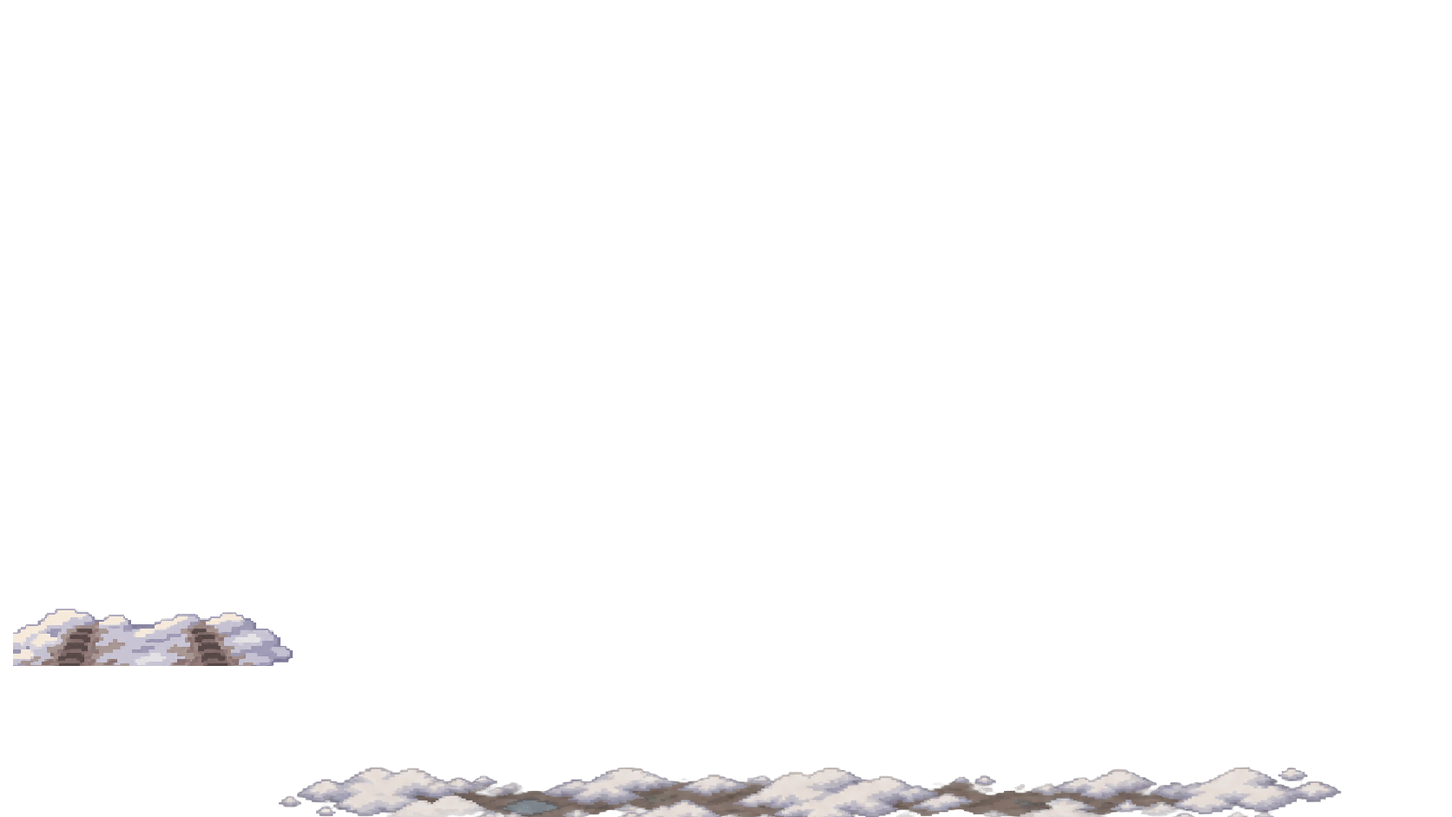
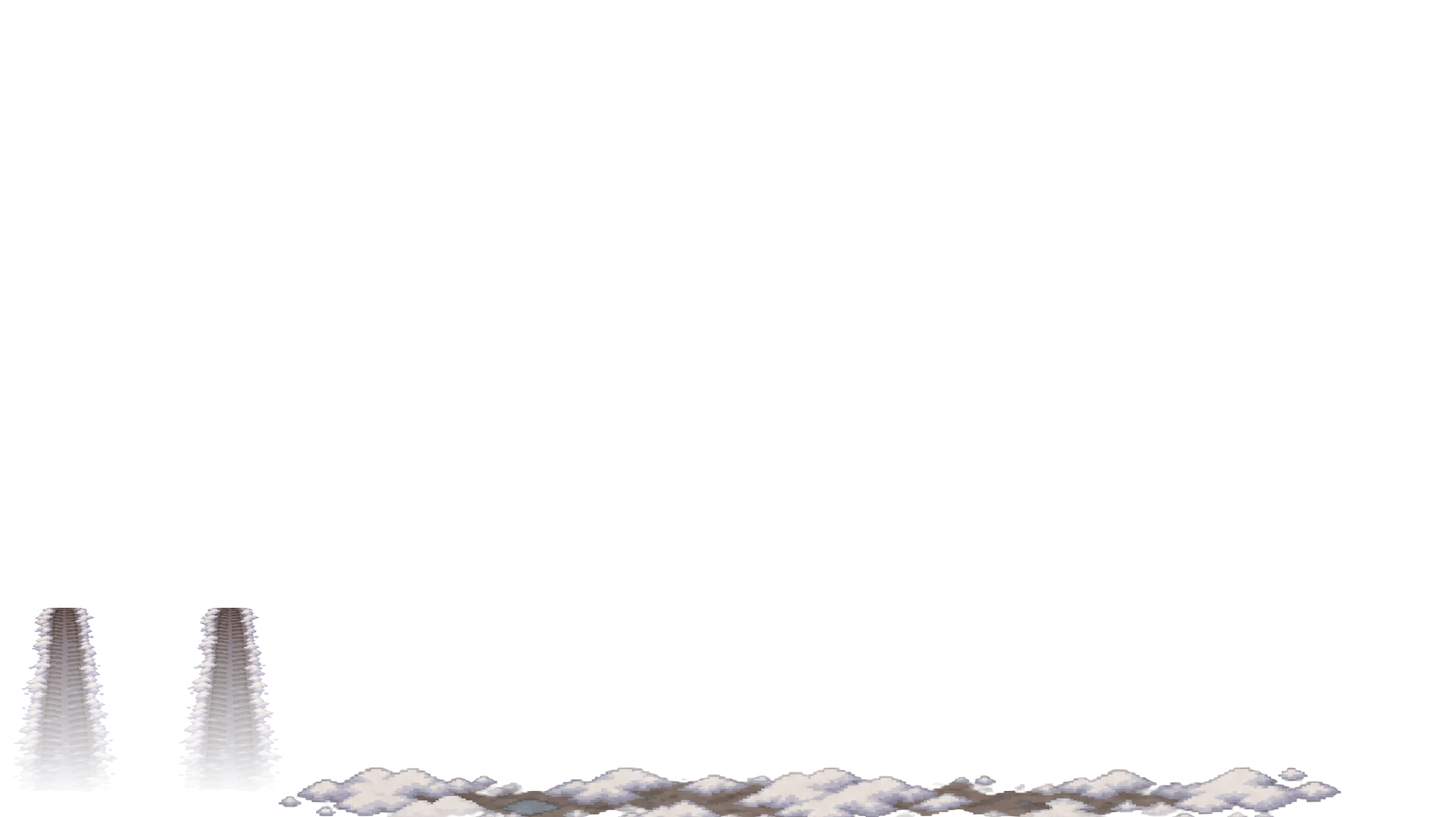
Torget til alle tider på døgnet, lange hjulspor og merkelapper på sikringene
- Bakgrunner for morgen, kveld og natt (marked-*.jpg); fargelaget over
  kveld/natt er fjernet.
- Lange hjulspor bak bilen som fader ut (i bakke.png med slapsen).
- Sikringene har kremhvite merkelapper med større ikon og kort navn.
- Tilbake til systemfontene (pikselfonten er bare definert, ikke i bruk).
- Bordkanten dekker hele bordplata, så kunder og tyven ikke kuttes.
- Postkassa kan klikkes igjen; ladestasjonen finjustert; søppelbøtta litt
  lenger til høyre; grenuttaket 85 % med bunnen fast.

Changed region(s): [[0.0, 0.7396, 0.2177, 0.9554]]

diff --git a/client/style.css b/client/style.css
@@ -1,4 +1,5 @@
-/* Fonter: Pixelify Sans (UI) – selvhostet, OFL. Håndskrift (oppskrifter/notater) bruker
+/* Fonter: UI-et bruker systemfonten igjen (pikselfonten ble for krevende å få plass til). Pixelify Sans er
+   fortsatt definert her (selvhostet, OFL) til eventuell senere bruk. Håndskrift (oppskrifter/notater) bruker
    systemfonten Segoe Print / Comic Sans. Se fonts/README.md */
 @font-face {
   font-family: 'Pixelify Sans';
@@ -39,7 +40,7 @@ html, body { margin: 0; }
 body {
   background: var(--bg);
   color: var(--ink);
-  font: 15px/1.5 'Pixelify Sans', system-ui, -apple-system, 'Segoe UI', sans-serif;
+  font: 15px/1.45 system-ui, -apple-system, 'Segoe UI', sans-serif;
 }
 
 h1, h2, h3 { margin: 0 0 0.6rem; line-height: 1.2; font-weight: 700; letter-spacing: 0.01em; }
@@ -321,7 +322,7 @@ body.night .power-layer.glow { filter: drop-shadow(0 0 0.6cqw rgba(255, 210, 120
 .loupe-mark.hint {
   pointer-events: auto; cursor: zoom-in; border: 0; padding: 0; margin: 0; border-radius: 0;
   background: rgba(255, 233, 168, 0.22); box-shadow: inset 0 0 0 2px #ffe9a8;
-  color: #ffe9a8; font: 700 1.6cqw/1 'Pixelify Sans', system-ui, sans-serif; text-shadow: 0 0 3px #000, 0 1px 0 #000;
+  color: #ffe9a8; font: 700 1.6cqw/1 system-ui, sans-serif; text-shadow: 0 0 3px #000, 0 1px 0 #000;
   display: flex; align-items: center; justify-content: center;
   animation: loupe-hint 1.4s ease-in-out infinite;
 }
@@ -473,7 +474,7 @@ body.night .power-layer.glow { filter: drop-shadow(0 0 0.6cqw rgba(255, 210, 120
 
 .modal.paper-modal { background: #f3ecdc; color: #1d1a16; max-width: 640px; }
 .modal.paper-modal .close { color: #1d1a16; }
-.paper { font-family: 'Pixelify Sans', system-ui, sans-serif; }
+.paper { font-family: Georgia, 'Times New Roman', serif; }
 .paper-mast { border-bottom: 3px double #1d1a16; padding-bottom: 0.4rem; margin-bottom: 0.8rem; text-align: center; }
 /* Logoen står til venstre; navnet er midtstilt i hele bredden (lik luft på begge sider). */
 .paper-name { position: relative; display: flex; align-items: center; justify-content: center; min-height: 2.1em; padding: 0 2.5em; font-size: clamp(1.6rem, 6vw, 2.6rem); font-weight: 900; letter-spacing: 0.04em; line-height: 1; }
@@ -483,7 +484,7 @@ body.night .power-layer.glow { filter: drop-shadow(0 0 0.6cqw rgba(255, 210, 120
 .paper-cols { display: grid; grid-template-columns: 1fr 1fr; gap: 1rem; border-bottom: 1px solid #b8ad97; padding-bottom: 0.8rem; margin-bottom: 0.8rem; }
 @media (max-width: 520px) { .paper-cols { grid-template-columns: 1fr; } }
 .paper-cols p { margin: 0.3rem 0; font-size: 0.9rem; }
-.paper-kicker { font-family: 'Pixelify Sans', system-ui, sans-serif; font-size: 0.72rem; font-weight: 800; text-transform: uppercase; letter-spacing: 0.08em; color: #8b1f25; margin-bottom: 0.2rem; }
+.paper-kicker { font-family: system-ui, sans-serif; font-size: 0.72rem; font-weight: 800; text-transform: uppercase; letter-spacing: 0.08em; color: #8b1f25; margin-bottom: 0.2rem; }
 .paper-power { background: #e6dcc6; padding: 0.6rem 0.7rem; border-left: 4px solid #6b8f5a; }
 .paper-power.hoy { border-left-color: #d9a441; }
 .paper-power.rekord { border-left-color: #b3262d; background: #f1d6cf; }
@@ -506,13 +507,13 @@ body.night .power-layer.glow { filter: drop-shadow(0 0 0.6cqw rgba(255, 210, 120
 
 /* Sider i avisa */
 .paper-tabs { display: flex; flex-wrap: wrap; gap: 0.3rem; margin: -0.3rem 0 0.9rem; border-bottom: 1px solid #b8ad97; padding-bottom: 0.5rem; }
-.paper .paper-tab { font-family: 'Pixelify Sans', system-ui, sans-serif; font-size: 0.75rem; font-weight: 700; padding: 0.25rem 0.55rem; background: transparent; color: #4a4339; border: 1px solid #b8ad97; box-shadow: none; }
+.paper .paper-tab { font-family: system-ui, sans-serif; font-size: 0.75rem; font-weight: 700; padding: 0.25rem 0.55rem; background: transparent; color: #4a4339; border: 1px solid #b8ad97; box-shadow: none; }
 .paper .paper-tab.on { background: #1d1a16; color: #f3ecdc; border-color: #1d1a16; }
 .paper-teasers { list-style: none; margin: 0 0 0.9rem; padding: 0; border-top: 1px solid #b8ad97; }
 .paper-teasers li { border-bottom: 1px solid #b8ad97; }
-.paper .paper-teaser { width: 100%; display: flex; justify-content: space-between; align-items: baseline; gap: 0.8rem; text-align: left; padding: 0.55rem 0.1rem; background: transparent; color: #1d1a16; border: 0; box-shadow: none; font-family: 'Pixelify Sans', system-ui, sans-serif; font-size: 1rem; font-weight: 700; }
+.paper .paper-teaser { width: 100%; display: flex; justify-content: space-between; align-items: baseline; gap: 0.8rem; text-align: left; padding: 0.55rem 0.1rem; background: transparent; color: #1d1a16; border: 0; box-shadow: none; font-family: Georgia, 'Times New Roman', serif; font-size: 1rem; font-weight: 700; }
 .paper .paper-teaser:hover span { text-decoration: underline; }
-.paper .paper-teaser small { font-family: 'Pixelify Sans', system-ui, sans-serif; font-size: 0.7rem; font-weight: 600; color: #6a604f; white-space: nowrap; }
+.paper .paper-teaser small { font-family: system-ui, sans-serif; font-size: 0.7rem; font-weight: 600; color: #6a604f; white-space: nowrap; }
 .paper .paper-teaser.alarm span { color: #8b1f25; }
 .paper-quote { margin: 0 0 0.6rem; padding: 0.4rem 0 0.4rem 0.9rem; border-left: 3px solid #8b1f25; font-size: 1.05rem; font-style: italic; }
 .paper-quote.has-face { display: flex; gap: 0.8rem; align-items: center; }
@@ -527,9 +528,9 @@ body.night .power-layer.glow { filter: drop-shadow(0 0 0.6cqw rgba(255, 210, 120
 .paper-thefts li:last-child { border-bottom: 0; }
 .paper-thefts li.mine { background: #f1d6cf; margin: 0 -0.4rem; padding: 0.35rem 0.4rem; }
 .paper-thefts small { color: #6a604f; }
-.paper-you { font-family: 'Pixelify Sans', system-ui, sans-serif; font-size: 0.65rem; font-weight: 800; text-transform: uppercase; background: #8b1f25; color: #fff; padding: 0.05rem 0.35rem; border-radius: 0.3rem; }
+.paper-you { font-family: system-ui, sans-serif; font-size: 0.65rem; font-weight: 800; text-transform: uppercase; background: #8b1f25; color: #fff; padding: 0.05rem 0.35rem; border-radius: 0.3rem; }
 .paper-log { margin: 0.2rem 0 0; font-size: 0.9rem; }
-.paper-foot { display: flex; justify-content: space-between; align-items: center; gap: 0.5rem; margin-top: 1rem; padding-top: 0.6rem; border-top: 3px double #1d1a16; font-family: 'Pixelify Sans', system-ui, sans-serif; font-size: 0.75rem; color: #4a4339; }
+.paper-foot { display: flex; justify-content: space-between; align-items: center; gap: 0.5rem; margin-top: 1rem; padding-top: 0.6rem; border-top: 3px double #1d1a16; font-family: system-ui, sans-serif; font-size: 0.75rem; color: #4a4339; }
 .paper .paper-turn { font-size: 0.8rem; padding: 0.3rem 0.6rem; background: #1d1a16; color: #f3ecdc; box-shadow: none; }
 .paper .paper-turn:disabled { opacity: 0.3; }
 
@@ -547,7 +548,7 @@ body.night .power-layer.glow { filter: drop-shadow(0 0 0.6cqw rgba(255, 210, 120
 .paper-window.moving { opacity: 0.92; }
 .paper-mast[data-paper-head] { cursor: grab; user-select: none; touch-action: none; }
 .paper-window.moving .paper-mast { cursor: grabbing; }
-.paper-tool { display: flex; flex-wrap: wrap; align-items: center; gap: 0.5rem; margin-top: 0.5rem; font-family: 'Pixelify Sans', system-ui, sans-serif; }
+.paper-tool { display: flex; flex-wrap: wrap; align-items: center; gap: 0.5rem; margin-top: 0.5rem; font-family: system-ui, sans-serif; }
 .paper-tool small { color: #6a604f; font-size: 0.75rem; }
 .paper-tool.done { font-size: 0.8rem; color: #2f6b4f; }
 .paper .paper-tool button { background: #1d1a16; color: #f3ecdc; box-shadow: none; }
@@ -569,15 +570,15 @@ body.night .power-layer.glow { filter: drop-shadow(0 0 0.6cqw rgba(255, 210, 120
   background: url('/art/verktoy/etterlyst-plakat.png') center / 100% 100% no-repeat;
   image-rendering: pixelated;
   text-align: center;
-  font-family: 'Pixelify Sans', system-ui, sans-serif;
+  font-family: Georgia, serif;
   color: #2a1d12;
 }
-.poster-art .poster-head { position: absolute; left: 12%; right: 12%; top: 15%; font: 900 12cqi/1 'Pixelify Sans', system-ui, sans-serif; letter-spacing: 0.08em; color: #8b1f25; }
+.poster-art .poster-head { position: absolute; left: 12%; right: 12%; top: 15%; font: 900 12cqi/1 system-ui, sans-serif; letter-spacing: 0.08em; color: #8b1f25; }
 .poster-art .poster-face { position: absolute; left: 13%; top: 31%; width: 74%; height: 45%; object-fit: contain; image-rendering: auto; }
 .poster-art .poster-x { position: absolute; inset: 0; width: 100%; height: 100%; }
 .poster-art.caught .poster-face { filter: grayscale(1); }
-.poster-art .poster-name { position: absolute; left: 8%; right: 8%; top: 79%; font: 800 8.5cqi/1.1 'Pixelify Sans', system-ui, sans-serif; }
-.poster-art .poster-reward { position: absolute; left: 8%; right: 8%; top: 89%; font: 700 6cqi/1 'Pixelify Sans', system-ui, sans-serif; text-transform: uppercase; color: #8b1f25; }
+.poster-art .poster-name { position: absolute; left: 8%; right: 8%; top: 79%; font: 800 8.5cqi/1.1 Georgia, serif; }
+.poster-art .poster-reward { position: absolute; left: 8%; right: 8%; top: 89%; font: 700 6cqi/1 system-ui, sans-serif; text-transform: uppercase; color: #8b1f25; }
 .poster.big { width: min(240px, 70vw); margin: 0 auto 0.6rem; }
 
 /* ---------- Spikeren under grenuttaket ---------- */
@@ -659,7 +660,7 @@ body.dragging .nail:not(.used) .nail-head { box-shadow: 0 0 0 0.25cqw rgba(255, 
   top: 10%;
   height: 42.9%; /* ned til y ≈ 542 px: bakkanten av bordplata */
   /* Klipp bare nederst (bordet skjuler kroppen) – hoder og luer får stikke opp over feltet. */
-  clip-path: inset(-60% 0 -8% 0); /* kroppene fortsetter litt ned bak bordkanten (.table-front dekker dem) */
+  clip-path: inset(-60% 0 -20% 0); /* kroppene fortsetter ned bak hele bordet (.table-front dekker dem), også tyven som lusker lavt */
   pointer-events: none;
 }
 .customer {
@@ -761,7 +762,7 @@ body.night .customers { filter: brightness(0.8) saturate(0.9); }
 .note-code { font: 700 19cqi/1 'Courier New', monospace; letter-spacing: 0.2em; color: #1d2a6b; padding-left: 0.2em; }
 .note-text { white-space: pre-wrap; word-break: break-word; }
 .note-form { margin-top: 0.8rem; }
-.safe-form input { font: 700 1.8rem/1 'Pixelify Sans', monospace; letter-spacing: 0.4em; text-align: center; max-width: 9rem; }
+.safe-form input { font: 700 1.8rem/1 'Courier New', monospace; letter-spacing: 0.4em; text-align: center; max-width: 9rem; }
 .loupe-btn { margin-top: 0.6rem; width: 100%; }
 .trash-note { color: #c9d8c4; font-size: max(10px, 0.8cqw); text-align: center; }
 .trash.full .sprite { animation: stink 1.6s ease-in-out infinite; }
@@ -1185,7 +1186,7 @@ body:has(.world) #toast.show { transform: translate(-50%, 0); opacity: 1; }
 .fuse-switch span { position: absolute; left: 15%; right: 15%; height: 42%; bottom: 6%; border-radius: 0.2cqw; background: #b3392f; transition: bottom 0.12s, background 0.12s; }
 .fuse-switch.up span { bottom: 52%; background: #2f7d4f; }
 .meter { display: flex; align-items: baseline; justify-content: center; gap: 0.4cqw; padding: 0.4cqw 0.6cqw; border-radius: 0.4cqw; background: #20242a; box-shadow: inset 0 0 0 0.15cqw #000; }
-.meter-digits { font-family: 'Pixelify Sans', monospace; font-weight: 700; letter-spacing: 0.15em; font-size: max(14px, 1.6cqw); color: #2b2b2b; background: #e9e3c8; padding: 0.1em 0.4em; border-radius: 0.2cqw; }
+.meter-digits { font-family: 'Courier New', monospace; font-weight: 700; letter-spacing: 0.15em; font-size: max(14px, 1.6cqw); color: #2b2b2b; background: #e9e3c8; padding: 0.1em 0.4em; border-radius: 0.2cqw; }
 .meter-unit { color: #e9e3c8; font-weight: 700; }
 .meter-sub { text-align: center; }
 .meter-roll { align-self: flex-start; }
@@ -1233,7 +1234,7 @@ body:has(.world) #toast.show { transform: translate(-50%, 0); opacity: 1; }
 .customer .want.lead { cursor: pointer; pointer-events: auto; z-index: 2; }
 .customer .want.lead.eager { background: #fff3b0; border-color: #e0a800; box-shadow: 0 0 0.8cqw rgba(255, 200, 40, 0.85); animation: lead-pulse 1.1s ease-in-out infinite; }
 .customer .want.lead.curious { background: #e6f1ff; border-color: #4a7fc1; animation: nudge 2s ease-in-out infinite; }
-.lead-badge { position: absolute; right: -0.5cqw; top: -0.5cqw; min-width: 1.4cqw; height: 1.4cqw; padding: 0 0.2cqw; display: grid; place-items: center; border-radius: 99px; font: 900 max(9px, 0.9cqw)/1 'Pixelify Sans', system-ui, sans-serif; color: #fff; border: 0.12cqw solid #1d1a16; }
+.lead-badge { position: absolute; right: -0.5cqw; top: -0.5cqw; min-width: 1.4cqw; height: 1.4cqw; padding: 0 0.2cqw; display: grid; place-items: center; border-radius: 99px; font: 900 max(9px, 0.9cqw)/1 system-ui, sans-serif; color: #fff; border: 0.12cqw solid #1d1a16; }
 .want.eager .lead-badge { background: #e0a800; }
 .want.curious .lead-badge { background: #4a7fc1; }
 @keyframes lead-pulse { 0%, 100% { transform: scale(1); } 50% { transform: scale(1.2); } }
@@ -1248,14 +1249,14 @@ body:has(.world) #toast.show { transform: translate(-50%, 0); opacity: 1; }
 .deals h3 { margin: 0 0 0.4rem; color: #8a1d12; }
 .shop-card.deal { border: 2px solid #d9261c; box-shadow: 0 0 0 3px rgba(217, 38, 28, 0.15); background: #fffaf0; color: #2b1d12; }
 .shop-card.deal .shop-sub, .shop-card.deal .shop-stock { color: #6b5a48; }
-.deal-ribbon { position: absolute; left: -0.3rem; top: 0.4rem; display: flex; flex-direction: column; align-items: center; padding: 0.15rem 0.5rem; border-radius: 4px; background: #d9261c; color: #fff; font: 900 0.7rem/1.1 'Pixelify Sans', system-ui, sans-serif; letter-spacing: 0.06em; transform: rotate(-8deg); box-shadow: 0 2px 4px rgba(0, 0, 0, 0.3); }
+.deal-ribbon { position: absolute; left: -0.3rem; top: 0.4rem; display: flex; flex-direction: column; align-items: center; padding: 0.15rem 0.5rem; border-radius: 4px; background: #d9261c; color: #fff; font: 900 0.7rem/1.1 system-ui, sans-serif; letter-spacing: 0.06em; transform: rotate(-8deg); box-shadow: 0 2px 4px rgba(0, 0, 0, 0.3); }
 .deal-ribbon b { font-size: 1rem; letter-spacing: 0; }
-.rare-ribbon { position: absolute; left: -0.45rem; top: 0.25rem; display: flex; align-items: center; gap: 0.15rem; padding: 0 0.45rem 0 0; border-radius: 999px; background: #3b2a06; color: #f6d36b; font: 900 0.68rem/1 'Pixelify Sans', system-ui, sans-serif; letter-spacing: 0.05em; text-transform: uppercase; box-shadow: 0 2px 4px rgba(0, 0, 0, 0.35); }
+.rare-ribbon { position: absolute; left: -0.45rem; top: 0.25rem; display: flex; align-items: center; gap: 0.15rem; padding: 0 0.45rem 0 0; border-radius: 999px; background: #3b2a06; color: #f6d36b; font: 900 0.68rem/1 system-ui, sans-serif; letter-spacing: 0.05em; text-transform: uppercase; box-shadow: 0 2px 4px rgba(0, 0, 0, 0.35); }
 .rare-ribbon img { width: 30px; height: 30px; margin: -4px 0 -4px -4px; image-rendering: pixelated; filter: drop-shadow(0 1px 1px rgba(0, 0, 0, 0.4)); }
 .shop-card.rare { box-shadow: 0 0 0 2px #d8b04a inset; }
 .shop-card.deal .shop-price { color: #d9261c; }
 .shop-price s { font-size: 0.85rem; font-weight: 600; color: var(--muted); }
-.coupon-flag { position: absolute; right: 0.25rem; top: 0.3rem; padding: 0.1rem 0.4rem; border-radius: 99px; border: 1.5px dashed #1d1a16; background: #f7eed8; font: 800 0.7rem 'Pixelify Sans', system-ui, sans-serif; }
+.coupon-flag { position: absolute; right: 0.25rem; top: 0.3rem; padding: 0.1rem 0.4rem; border-radius: 99px; border: 1.5px dashed #1d1a16; background: #f7eed8; font: 800 0.7rem system-ui, sans-serif; }
 .cart-coupon, .cart-card { color: #2f6b4f; font-weight: 700; }
 .card-toggle { display: flex; gap: 0.4rem; align-items: center; margin: 0.4rem 0; font-size: 0.9rem; }
 
@@ -1266,8 +1267,8 @@ body:has(.world) #toast.show { transform: translate(-50%, 0); opacity: 1; }
 .paper-coupon > * { image-rendering: auto; }
 .paper-coupon.cut { border: 2px dotted #8b7d63; background: #e6dcc6; color: #6a604f; justify-content: center; min-height: 8rem; }
 .paper-coupon.cut::before { content: none; }
-.coupon-store { align-self: stretch; padding: 0.1rem; background: var(--brand); color: var(--brand-ink); font: 900 0.85rem 'Pixelify Sans', system-ui, sans-serif; letter-spacing: 0.05em; }
-.coupon-pct { font: 900 2rem/1 'Pixelify Sans', system-ui, sans-serif; color: #8b1f25; }
+.coupon-store { align-self: stretch; padding: 0.1rem; background: var(--brand); color: var(--brand-ink); font: 900 0.85rem system-ui, sans-serif; letter-spacing: 0.05em; }
+.coupon-pct { font: 900 2rem/1 Georgia, serif; color: #8b1f25; }
 .coupon-what { font-weight: 700; }
 .coupon-when { font-size: 0.75rem; color: #6a604f; }
 .paper-coupon.big { max-width: 240px; margin: 0 auto 0.6rem; }
@@ -1293,11 +1294,13 @@ body:has(.world) #toast.show { transform: translate(-50%, 0); opacity: 1; }
 .maker-none { margin: 0; max-width: 34cqw; color: #f5d9b0; font-size: max(9px, 0.75cqw); font-style: italic; }
 
 /* Bakgrunnen følger spillklokka (body[data-daypart] settes i tickClock). */
-/* Det nye torget finnes foreløpig bare i dagslys: kveld og natt dempes med fargelaget over bakgrunnen.
-   Kommer det egne versjoner, settes de her (som hovedgata-*.jpg før). */
-body[data-daypart] .stage { --bg: url('/art/bg/marked-dag.jpg'); }
-body[data-daypart="kveld"] .stage > .tint { background: rgba(40, 30, 90, 0.35); }
-body[data-daypart="natt"] .stage > .tint { background: rgba(10, 15, 60, 0.62); }
+/* Torget til hver tid på døgnet (samme motiv som marked-dag, se GRAFIKK.md). Natt-/kveldsbildene er
+   mørke fra før, så fargelaget over bakgrunnen trengs ikke – bare boden dempes om natta. */
+body[data-daypart="morgen"] .stage { --bg: url('/art/bg/marked-morgen.jpg'); }
+body[data-daypart="dag"] .stage { --bg: url('/art/bg/marked-dag.jpg'); }
+body[data-daypart="kveld"] .stage { --bg: url('/art/bg/marked-kveld.jpg'); }
+body[data-daypart="natt"] .stage { --bg: url('/art/bg/marked-natt.jpg'); }
+body.night .stage > .tint { background: none; }
 
 /* Innkjøp: fast topp, bare varene scroller */
 .modal:has(.shop-body) { display: flex; flex-direction: column; overflow: hidden; }
@@ -1316,21 +1319,21 @@ body[data-daypart="natt"] .stage > .tint { background: rgba(10, 15, 60, 0.62); }
 .phone-sprite.open { opacity: 0.55; }
 .phone-sprite.buzz img { animation: buzz 2.4s ease-in-out infinite; }
 @keyframes buzz { 0%, 86%, 100% { transform: translate(0, 0); } 88% { transform: translate(-1.5px, 0) rotate(-3deg); } 90% { transform: translate(1.5px, 0) rotate(3deg); } 92% { transform: translate(-1.5px, 0) rotate(-3deg); } 94% { transform: translate(1.5px, 0) rotate(2deg); } }
-.phone-badge { position: absolute; right: -4%; top: -6%; min-width: 1.5em; height: 1.5em; padding: 0 0.3em; display: grid; place-items: center; border-radius: 99px; background: #d9261c; color: #fff; font: 800 max(10px, 0.85cqw) / 1 'Pixelify Sans', system-ui, sans-serif; border: 2px solid #1d1a16; }
+.phone-badge { position: absolute; right: -4%; top: -6%; min-width: 1.5em; height: 1.5em; padding: 0 0.3em; display: grid; place-items: center; border-radius: 99px; background: #d9261c; color: #fff; font: 800 max(10px, 0.85cqw) / 1 system-ui, sans-serif; border: 2px solid #1d1a16; }
 .phone-sprite.corner .phone-badge { font-size: 12px; }
 
 .phone-window { position: fixed; z-index: 46; right: 24px; top: 8dvh; width: min(300px, calc(100vw - 32px)); }
 .phone-window.placed { right: auto; }
 .phone-window.moving { opacity: 0.92; }
 .phone-frame { display: flex; flex-direction: column; height: min(600px, 84dvh); padding: 10px; border-radius: 34px; background: #1f2329; border: 3px solid #0f1114; box-shadow: 0 18px 48px rgba(0, 0, 0, 0.6), inset 0 0 0 2px #3a3f47; }
-.phone-head { position: relative; display: flex; align-items: center; justify-content: space-between; padding: 4px 12px 6px; color: #e9edf3; font: 700 12px/1 'Pixelify Sans', system-ui, sans-serif; cursor: grab; user-select: none; touch-action: none; }
+.phone-head { position: relative; display: flex; align-items: center; justify-content: space-between; padding: 4px 12px 6px; color: #e9edf3; font: 700 12px/1 system-ui, sans-serif; cursor: grab; user-select: none; touch-action: none; }
 .phone-window.moving .phone-head { cursor: grabbing; }
 .phone-notch { position: absolute; left: 50%; top: 2px; translate: -50% 0; width: 64px; height: 14px; border-radius: 99px; background: #0b0c0e; }
 .phone-close { position: absolute; right: -2px; top: -4px; width: 22px; height: 22px; padding: 0; border-radius: 50%; background: #3a3f47; color: #e9edf3; border: 0; font-size: 11px; cursor: pointer; box-shadow: none; }
-.phone-screen { flex: 1; min-height: 0; overflow-y: auto; padding: 12px; border-radius: 24px; background: linear-gradient(170deg, #3a5a8f 0%, #283c63 45%, #1b2440 100%); color: #f3f5f9; font-family: 'Pixelify Sans', system-ui, sans-serif; overscroll-behavior: contain; }
+.phone-screen { flex: 1; min-height: 0; overflow-y: auto; padding: 12px; border-radius: 24px; background: linear-gradient(170deg, #3a5a8f 0%, #283c63 45%, #1b2440 100%); color: #f3f5f9; font-family: system-ui, sans-serif; overscroll-behavior: contain; }
 .phone-homebar { flex: none; width: 96px; height: 5px; margin: 8px auto 2px; border-radius: 99px; background: #8a909a; cursor: pointer; }
 .phone-lock { text-align: center; margin: 6px 0 12px; }
-.phone-time { font: 400 3.2rem/1 'Pixelify Sans', system-ui, sans-serif; letter-spacing: 0.02em; font-variant-numeric: tabular-nums; }
+.phone-time { font: 200 3.2rem/1 system-ui, sans-serif; letter-spacing: 0.02em; font-variant-numeric: tabular-nums; }
 .phone-date { margin-top: 4px; font-size: 0.85rem; opacity: 0.9; }
 .phone-date .pill { font-size: 0.7rem; }
 .phone-widgets { display: grid; grid-template-columns: 1fr 1fr; gap: 8px; margin-bottom: 10px; }
@@ -1406,7 +1409,7 @@ img.title-icon { height: 1.3em; width: auto; vertical-align: -0.3em; image-rende
 .phone-screen { background: #1b2440 url('/art/telefon/bakgrunn.jpg') center / cover no-repeat; }
 
 /* Bordkanten (en stripe av bodbildet) oppå kundene og under varene */
-.table-front { position: absolute; inset: 0; pointer-events: none; background: url('/art/bod_selger.png') center / 100% 100% no-repeat; clip-path: inset(51.76% 14.7% 43.85% 23.1%); } /* bordplata mellom stolpene, der kundene står */
+.table-front { position: absolute; inset: 0; pointer-events: none; background: url('/art/bod_selger.png') center / 100% 100% no-repeat; clip-path: inset(51.76% 14.7% 39.45% 23.1%); } /* hele bordplata og forkanten (y 530–620) mellom stolpene, der kundene står */
 .table-front::after { content: ''; position: absolute; inset: 0; background: rgba(20, 30, 90, 0); transition: background 1.2s; -webkit-mask: url('/art/bod_selger.png') center / 100% 100% no-repeat; mask: url('/art/bod_selger.png') center / 100% 100% no-repeat; }
 body.night .table-front::after { background: rgba(20, 30, 90, 0.28); }
 
@@ -1418,7 +1421,7 @@ body.night .table-front::after { background: rgba(20, 30, 90, 0.28); }
 .phone-head { position: absolute; left: 7%; right: 7%; top: 8.7%; height: 9.6%; padding: 0; }
 .phone-close { right: 4%; top: 18%; }
 .phone-screen { position: absolute; left: 16.83%; top: 18.58%; width: 66.33%; height: 67.08%; padding: 8px 10px 10px; border-radius: 3px; }
-.phone-status { display: flex; justify-content: space-between; margin: -2px 0 6px; font: 700 11px/1 'Pixelify Sans', system-ui, sans-serif; opacity: 0.9; }
+.phone-status { display: flex; justify-content: space-between; margin: -2px 0 6px; font: 700 11px/1 system-ui, sans-serif; opacity: 0.9; }
 .phone-homebar { position: absolute; left: 30%; right: 30%; top: 86.5%; height: 6%; margin: 0; width: auto; background: none; border-radius: 0; }
 .phone-time { font-size: 2.6rem; }
 .phone-apps { gap: 6px 2px; }
@@ -1502,9 +1505,31 @@ body.night .table-front::after { background: rgba(20, 30, 90, 0.28); }
   background: url('/art/elektro/din-skinne.png') center 48% / 100% 46% no-repeat, rgba(0, 0, 0, 0.25);
   image-rendering: pixelated;
 }
-.breaker { display: flex; flex-direction: column; align-items: center; width: 3.2cqw; }
-.breaker-dev { height: 1.7cqw; display: grid; place-items: center; }
-.breaker-dev img, .breaker-dev .ico { max-height: 1.6cqw; max-width: 2.4cqw; }
+.breaker { display: flex; flex-direction: column; align-items: center; width: 4.6cqw; } /* bred nok til navnet på lappen */
+/* Merkelapp over hver sikring, som i en ekte sikringsboks: lys papirlapp med ikon og kort navn. */
+.breaker-label {
+  width: 4.4cqw;
+  min-width: 22px;
+  margin-bottom: 0.25cqw;
+  padding: 0.2cqw 0.1cqw 0.15cqw;
+  display: grid;
+  justify-items: center;
+  gap: 0.05cqw;
+  background: #f4ecd2;
+  border: 1px solid #8b7d63;
+  border-radius: 0.15cqw;
+  box-shadow: 0 0.12cqw 0 rgba(0, 0, 0, 0.35);
+}
+.breaker-label img.icon { width: 2.4cqw; height: 2.1cqw; min-width: 12px; min-height: 11px; vertical-align: 0; object-fit: contain; image-rendering: pixelated; }
+.breaker-label b {
+  max-width: 100%;
+  overflow: hidden;
+  text-overflow: ellipsis;
+  white-space: nowrap;
+  color: #3b2414;
+  font-size: max(8px, 0.56cqw);
+  line-height: 1.1;
+}
 .breaker-switch { width: 2.8cqw; height: 5.6cqw; min-width: 14px; min-height: 28px; padding: 0; border: 0; background: none; box-shadow: none; border-radius: 0.2cqw; }
 .breaker-switch:hover { background: none; filter: brightness(1.15); }
 .breaker-switch img { width: 100%; height: 100%; display: block; image-rendering: pixelated; }

diff --git a/client/main.ts b/client/main.ts
@@ -362,7 +362,7 @@ function hasTool(s: GameState, typeId: string): Item | undefined {
 /** Bakgrunnen etter tid på døgnet (desember: mørkt fra kl. 15). */
 const daypart = (h: number) => (h >= 7 && h < 10 ? 'morgen' : h >= 10 && h < 15 ? 'dag' : h >= 15 && h < 21 ? 'kveld' : 'natt');
 // Last alle fire bakgrunnene med en gang, så byttet skjer uten blink.
-new Image().src = '/art/bg/marked-dag.jpg'; // torget (bare dagslys foreløpig; kveld/natt er et fargelag)
+for (const p of ['morgen', 'dag', 'kveld', 'natt']) new Image().src = `/art/bg/marked-${p}.jpg`;
 
 let shownStall: StallPublic | null = null; // boden som vises nå (egen eller besøkt)
 let lastSaleId: number | null = null; // nyeste salg vi allerede har vist
@@ -1246,6 +1246,17 @@ function cellView(s: GameState, m: Item): string {
 }
 
 /** Sikringsboks med automatsikringer (vipp opp igjen / slår seg på selv), eller forbikoblet (ingen sikringer, måleren står). */
+/**
+ * Kort navn til merkelappen over en sikring: første ord uten «-maskin», «-system» osv. («Bake», «Alarm»),
+ * pluss nummeret hvis det er flere like («Uttak 2»). Hele navnet står i title.
+ */
+function shortLabel(name: string): string {
+  const num = name.match(/ (\d+)$/)?.[1];
+  let first = name.replace(/ \d+$/, '').split(/[\s,(«-]/)[0];
+  first = first.replace(/(maskin|system|stasjon|lenke|terminal)$/i, '').replace(/^Grenuttak$/i, 'Uttak') || first;
+  return num ? `${first} ${num}` : first;
+}
+
 function autoFusePanel(s: GameState, box: Item, n: number, kind: 'auto' | 'smart' | 'bypass'): string {
   const stall = myStall(s)!;
   const items = s.me.items;
@@ -1268,7 +1279,7 @@ function autoFusePanel(s: GameState, box: Item, n: number, kind: 'auto' | 'smart
                   const img = `/art/elektro/${kind === 'smart' ? 'smart' : 'automat'}-${tripped ? 'gatt' : off ? 'av' : 'pa'}.png`;
                   const tip = `${nm.name}: ${label}. ${tripped ? 'Trykk for å vippe sikringen opp igjen.' : off ? 'Trykk for å slå på.' : 'Trykk for å slå av.'}`;
                   return `<div class="breaker ${tripped ? 'tripped' : off ? 'off' : 'on'}">
-                <span class="breaker-dev">${icon(nm)}</span>
+                <span class="breaker-label" title="${esc(nm.name)}">${icon(nm)}<b>${esc(shortLabel(nm.name))}</b></span>
                 <button class="breaker-switch" data-action="fuse-toggle" data-entry="${esc(entry)}" title="${esc(tip)}" aria-label="${esc(tip)}" aria-pressed="${!tripped && !off}"><img src="${img}" alt="" draggable="false"></button>
                 <small>${tripped ? '⚡' : off ? 'av' : st === 'ok' ? kwStr(entryKw(entry, items)) : '–'}</small></div>`;
                 })

diff --git a/GRAFIKK.md b/GRAFIKK.md
@@ -136,7 +136,20 @@ gjelder ikke grensa – da er det ditt ansvar å ikke pixelifisere et stort scen
 
 ## Gjenstående grafikk-ønsker
 
-### Bestilling (11.11.2026): torget om morgenen, kvelden og natta
+### ✅ I bruk (12.11.2026): torget om morgenen, kvelden og natta
+
+**I spillet:** `art/bg/marked-{morgen,dag,kveld,natt}.jpg`; fargelaget over kveld/natt er fjernet.
+
+**✅ Ferdig i `GFX_assets/ChatGPT`:** `marked-morgen.png`, `marked-kveld.png`
+og `marked-natt.png`, alle ugjennomsiktige PNG-er på **1672×941 px**.
+Dagbildet er brukt direkte som redigeringsreferanse; utsnitt og plasseringer er
+visuelt kontrollert mot dagversjonen. Morgen har rosa/ferskenlys, kveld har
+blålilla skumring og varme lykter, natt har stjerner, måne og lukkede markedsboder.
+Oversikt med dagbildet: `marked-dognvarianter-oversikt.jpg`.
+Genererte originaler er bevart som `marked-{morgen,kveld,natt}-original.png`.
+Prompter og oppsett: `marked-og-bilspor-prompter.json`.
+Kontroll: `marked-og-bilspor-kontroll.json`. Ikke kjørt gjennom `pixelify.py`.
+Klare for innlegging; spillfiler og Aseprite-fila er ikke endret.
 
 Den nye layouten (`GFX_assets/ChatGPT/Ny Layout.aseprite`, lerret **1672×941 px**) bruker
 laget «Background» som bakgrunn: `client/public/art/bg/marked-dag.jpg`. Det finnes bare i dagslys;
@@ -164,7 +177,20 @@ spillet legger i dag et blått fargelag over om kvelden og natta. Vi trenger tre
 Spillet bytter bakgrunn etter tid på døgnet (`body[data-daypart]` i `style.css`); når de tre er
 levert, blir de `art/bg/marked-{morgen,kveld,natt}.jpg`, og fargelaget over kveld/natt fjernes.
 
-### Bestilling (11.11.2026): lengre hjulspor bak bilen som fader ut
+### ✅ I bruk (12.11.2026): lengre hjulspor bak bilen som fader ut
+
+**I spillet:** lagt sammen med slapsen i `art/bakke.png` (erstatter det korte sporet).
+
+**✅ Ferdig i `GFX_assets/ChatGPT`:** `bilspor-lange.png`, transparent **1672×941 px**.
+To loddrette dekkspor med gråblå/brun slaps og lyse snøkanter, sentrert ved
+x=75 og x=265. Hvert spor er plassert i et 120×241-felt fra y=700, slik at
+de dekker hjulplasseringene og blir litt bredere nedover. Alfa avtar gradvis;
+de svakeste pikslene er ryddet bort og nederkanten er helt gjennomsiktig.
+Forhåndsvisning på dagbakgrunnen: `bilspor-lange-forhandsvisning.png`.
+Stor generert original: `bilspor-lange-original.png`.
+Prompter/oppsett og kontroll: `marked-og-bilspor-{prompter,kontroll}.json`.
+Ved innlegging: erstatt det gamle «Bil_spor»-laget, behold «Bakke_slaps»,
+og legg sporene bak bilene og leveransene. Aseprite-fila og spillfiler er ikke endret.
 
 Dagens hjulspor (laget «Bil_spor» i Ny Layout, 322×66 px ved x 15, y 701) er bare en kort
 flekk under bakhjulene og ser ut som en grå klatt. Ønsket:
@@ -1260,6 +1286,7 @@ ferdige originaler og bilder som er markert som tatt i bruk i spillet.
 
 | Hva | Størrelse | Mappe / fil i spillet |
 |---|---|---|
+| Markedsbakgrunn morgen, kveld og natt, samt lange hjulspor | 1672×941 hver | ✅ Originaler ferdige i `GFX_assets/ChatGPT/marked-{morgen,kveld,natt}.png` og `bilspor-lange.png`; klare for innlegging. Oversikt: `marked-dognvarianter-oversikt.jpg` |
 | Maskininnmat, pluggikoner, automatsikringer, notatark, Eivblå, avisgrafikk og etterlysningsplakat | se «✅ i bruk: maskininnmat, automatsikringer, …» | ✅ i bruk: `art/innmat/*.png` (bak rutenettene i maskinene), `art/elektro/{plugget-inn,ikke-plugget-inn,batteriplass-tom,din-skinne}.png`, `art/elektro/{automat,smart}-{pa,av,gatt}.png` (sikringene på skinna), `art/papir/{notatark,kodelapp-ark}.png`, `art/avis/*.png`, `art/verktoy/etterlyst-plakat{,-tatt}.png` (+ `etterlyst-kryss.png`, krysset alene, lagt over ansiktet når tyven er tatt) |
 | Nøkkelkrok (med/uten nøkkel), tomme bæreplasser (hånd, sekk), tom parkeringsplass og spor | se «✅ i bruk: små ting i grensesnittet» | ✅ i bruk |
 | Ny vanlig og smart sikringsboks (av + på), automat- og forbikoblet boks, dokumentmappe (lukket + åpen) | se «Ferdig laget: sikringsbokser og dokumentmappe» | ✅ i bruk: `art/elektro/sikringsboks{,-av,-smart,-smart-av,-automat,-bypass}.png` (2×2, av-bildet når boden er uten strøm), `art/verktoy/dokumentmappe.png` (2×3) og `dokumentmappe-apen.png` (640×768, bakgrunn i vinduet; fanenavnene står på fargede knapper over) |
